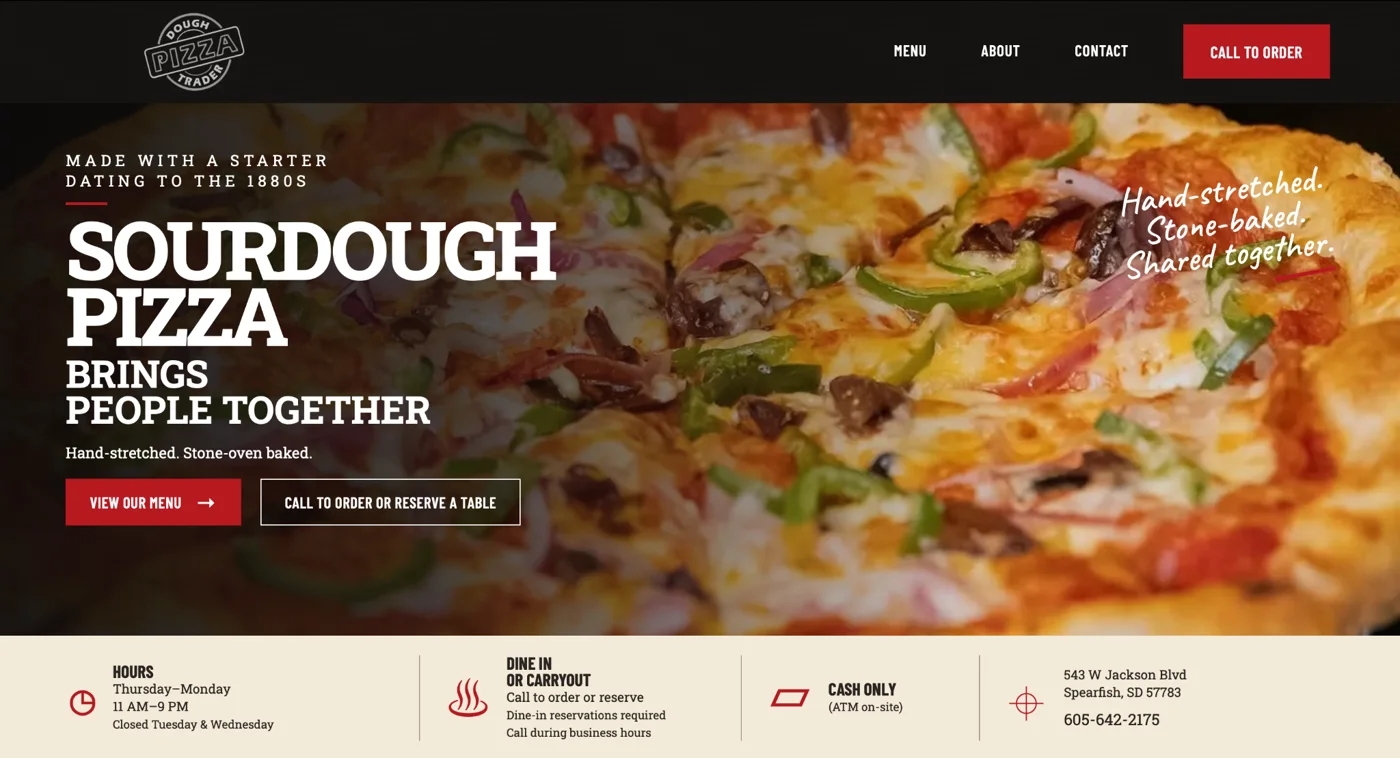
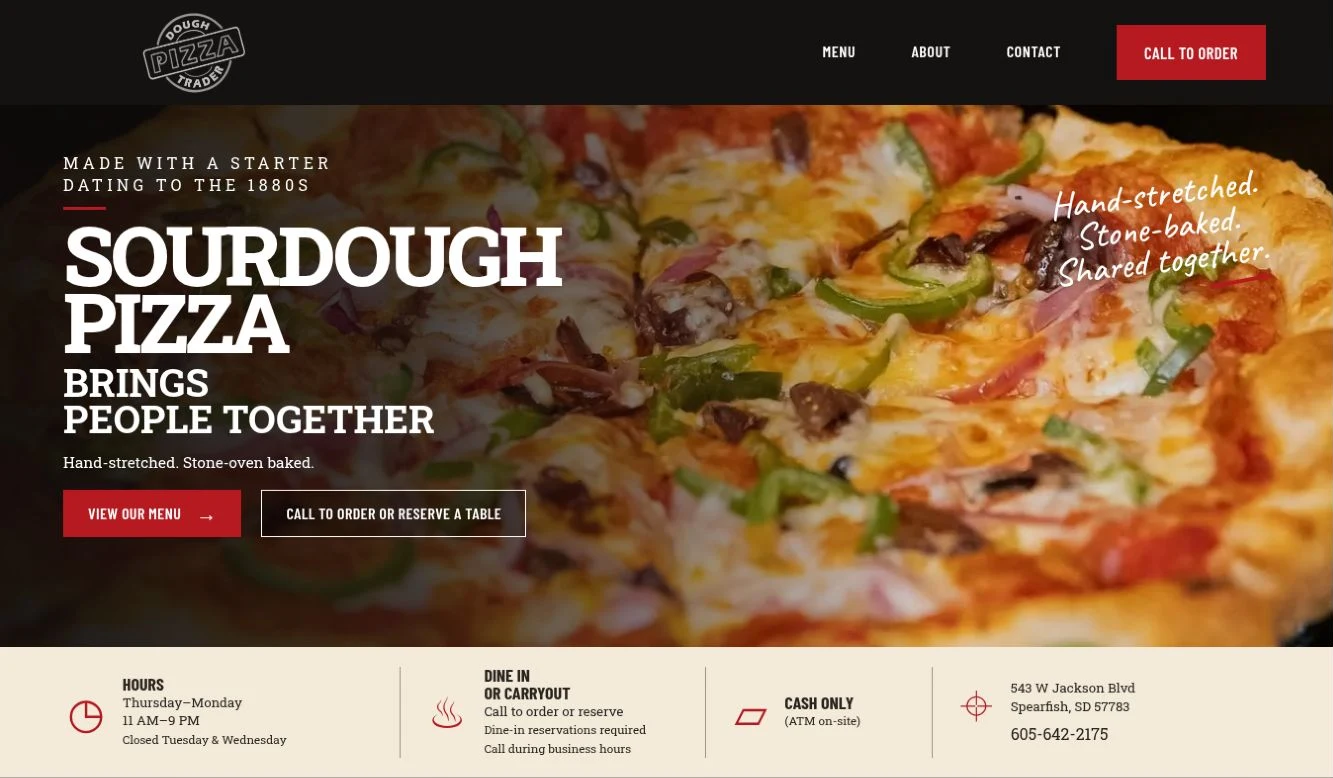
Show Essence of Coffee and Dough Trader as completed live projects

diff --git a/index.html b/index.html
@@ -615,14 +615,14 @@
       <div class="projects">
 
 <article class="case-study reverse reveal">
-<a class="browser-preview" href="https://essence-of-coffee-roasters.vercel.app/" target="_blank" rel="noopener" aria-label="Preview Website: Essence of Coffee Roasters">
-<div class="browser-bar"><span></span><span></span><span></span><small>essence-of-coffee-roasters.vercel.app</small></div>
-<div class="browser-content" style="padding:0;overflow:hidden;min-height:0;height:auto;aspect-ratio:1400 / 740;position:relative;background:#141210">
-<img src="essence-of-coffee-site.webp" alt="Essence of Coffee Roasters website homepage" loading="lazy" width="1400" height="740" style="position:absolute;inset:0;width:100%;height:100%;object-fit:contain;object-position:top center">
+<a class="browser-preview" href="https://essenceofcoffeeroasters.com/" target="_blank" rel="noopener" aria-label="Visit Live Site: Essence of Coffee Roasters">
+<div class="browser-bar"><span></span><span></span><span></span><small>essenceofcoffeeroasters.com</small></div>
+<div class="browser-content" style="padding:0;overflow:hidden;min-height:0;height:auto;aspect-ratio:1333 / 654;position:relative;background:#141210">
+<img src="essence-of-coffee-site.webp" alt="Essence of Coffee Roasters website homepage" loading="lazy" width="1333" height="654" style="position:absolute;inset:0;width:100%;height:100%;object-fit:contain;object-position:top center">
 </div></a>
-<div class="case-study-copy"><p class="project-type">COFFEE ROASTER · E-COMMERCE</p><h3>Essence of Coffee Roasters</h3><p>A custom coffee storefront that brings blends, single origins, subscriptions and wholesale inquiries into one clear shopping experience, with a distinctive visual identity rooted in the family's Australian heritage and Black Hills roastery.</p>
+<div class="case-study-copy"><p class="project-type">COFFEE ROASTER · E-COMMERCE · LIVE</p><h3>Essence of Coffee Roasters</h3><p>A custom Shopify-connected storefront for a Black Hills coffee roastery, bringing blends, single origins, subscriptions and wholesale inquiries into one clear shopping experience. Australian heritage shapes the design, while product details and direct checkout make it easy to find and purchase the right coffee.</p>
 <div class="project-details"><span>Coffee Catalog</span><span>Subscriptions</span><span>Wholesale</span><span>Mobile Commerce</span></div>
-<a class="text-link" href="https://essence-of-coffee-roasters.vercel.app/" target="_blank" rel="noopener">Preview Website →</a></div></article>
+<a class="text-link" href="https://essenceofcoffeeroasters.com/" target="_blank" rel="noopener">Visit Live Site →</a></div></article>
 
 <article class="case-study reveal">
 <a class="browser-preview" href="https://blackhillsleatherandcanvas.com/" target="_blank" rel="noopener" aria-label="Visit Website: Black Hills Leather &amp; Canvas">
@@ -635,14 +635,14 @@
 <a class="text-link" href="https://blackhillsleatherandcanvas.com/" target="_blank" rel="noopener">Visit Website →</a></div></article>
 
 <article class="case-study reverse reveal">
-<a class="browser-preview" href="https://dough-trader-pizza.vercel.app/" target="_blank" rel="noopener" aria-label="Preview Website: Dough Trader Pizza">
-<div class="browser-bar"><span></span><span></span><span></span><small>dough-trader-pizza.vercel.app</small></div>
-<div class="browser-content" style="padding:0;overflow:hidden;min-height:0;height:auto;aspect-ratio:1400 / 758;position:relative;background:#141210">
-<img src="dough-trader-site.webp" alt="Dough Trader Pizza website homepage" loading="lazy" width="1400" height="758" style="position:absolute;inset:0;width:100%;height:100%;object-fit:contain;object-position:top center">
+<a class="browser-preview" href="https://www.doughtraderpizza.com/" target="_blank" rel="noopener" aria-label="Visit Live Site: Dough Trader Pizza">
+<div class="browser-bar"><span></span><span></span><span></span><small>doughtraderpizza.com</small></div>
+<div class="browser-content" style="padding:0;overflow:hidden;min-height:0;height:auto;aspect-ratio:1333 / 778;position:relative;background:#141210">
+<img src="dough-trader-site.webp" alt="Dough Trader Pizza website homepage" loading="lazy" width="1333" height="778" style="position:absolute;inset:0;width:100%;height:100%;object-fit:contain;object-position:top center">
 </div></a>
-<div class="case-study-copy"><p class="project-type">RESTAURANT · CUSTOM BUILD</p><h3>Dough Trader Pizza</h3><p>A photo-led restaurant website built around Dough Trader's sourdough pizza, with an easy-to-read menu, clear hours and location details, and prominent mobile calls to order or reserve a table.</p>
+<div class="case-study-copy"><p class="project-type">RESTAURANT · CUSTOM BUILD · LIVE</p><h3>Dough Trader Pizza</h3><p>A photo-led website for a Spearfish restaurant, with a readable pizza and appetizer menu, clear hours and directions, and prominent mobile calls to order or reserve a table. The finished site gives customers a direct path from discovering the food to planning their visit.</p>
 <div class="project-details"><span>Restaurant Menu</span><span>Call to Order</span><span>Hours &amp; Location</span><span>Mobile Design</span></div>
-<a class="text-link" href="https://dough-trader-pizza.vercel.app/" target="_blank" rel="noopener">Preview Website →</a></div></article>
+<a class="text-link" href="https://www.doughtraderpizza.com/" target="_blank" rel="noopener">Visit Live Site →</a></div></article>
 
 
 
